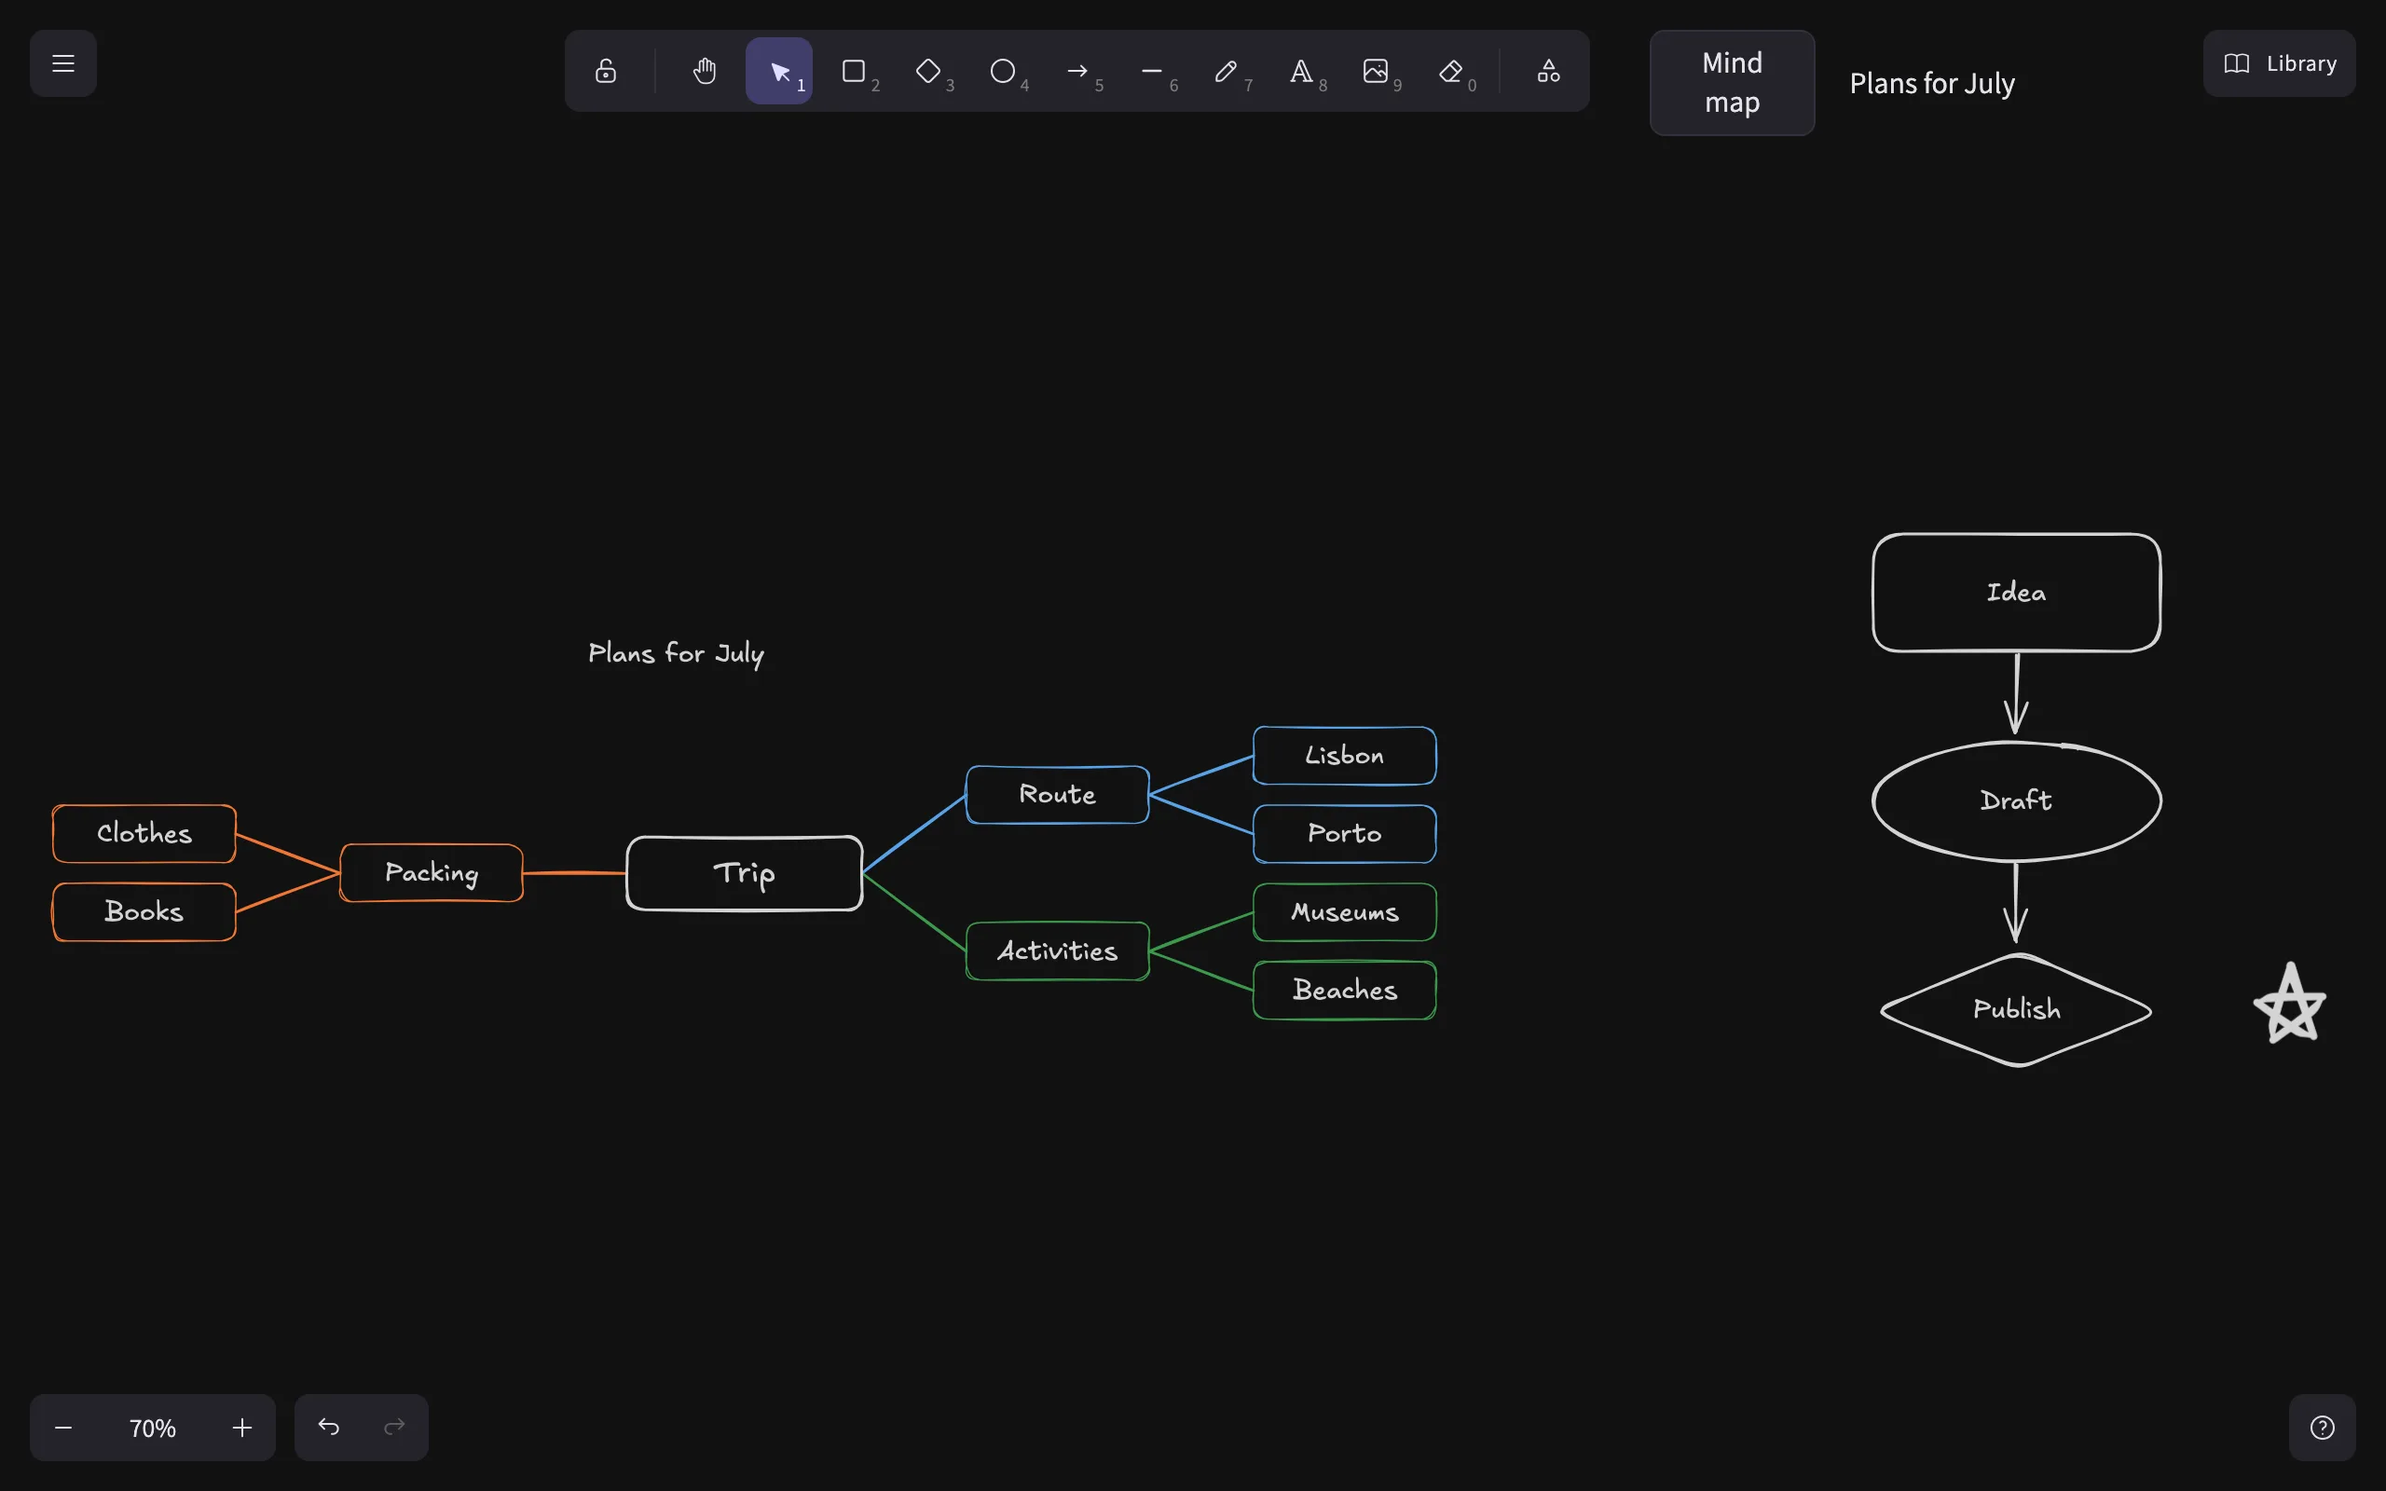
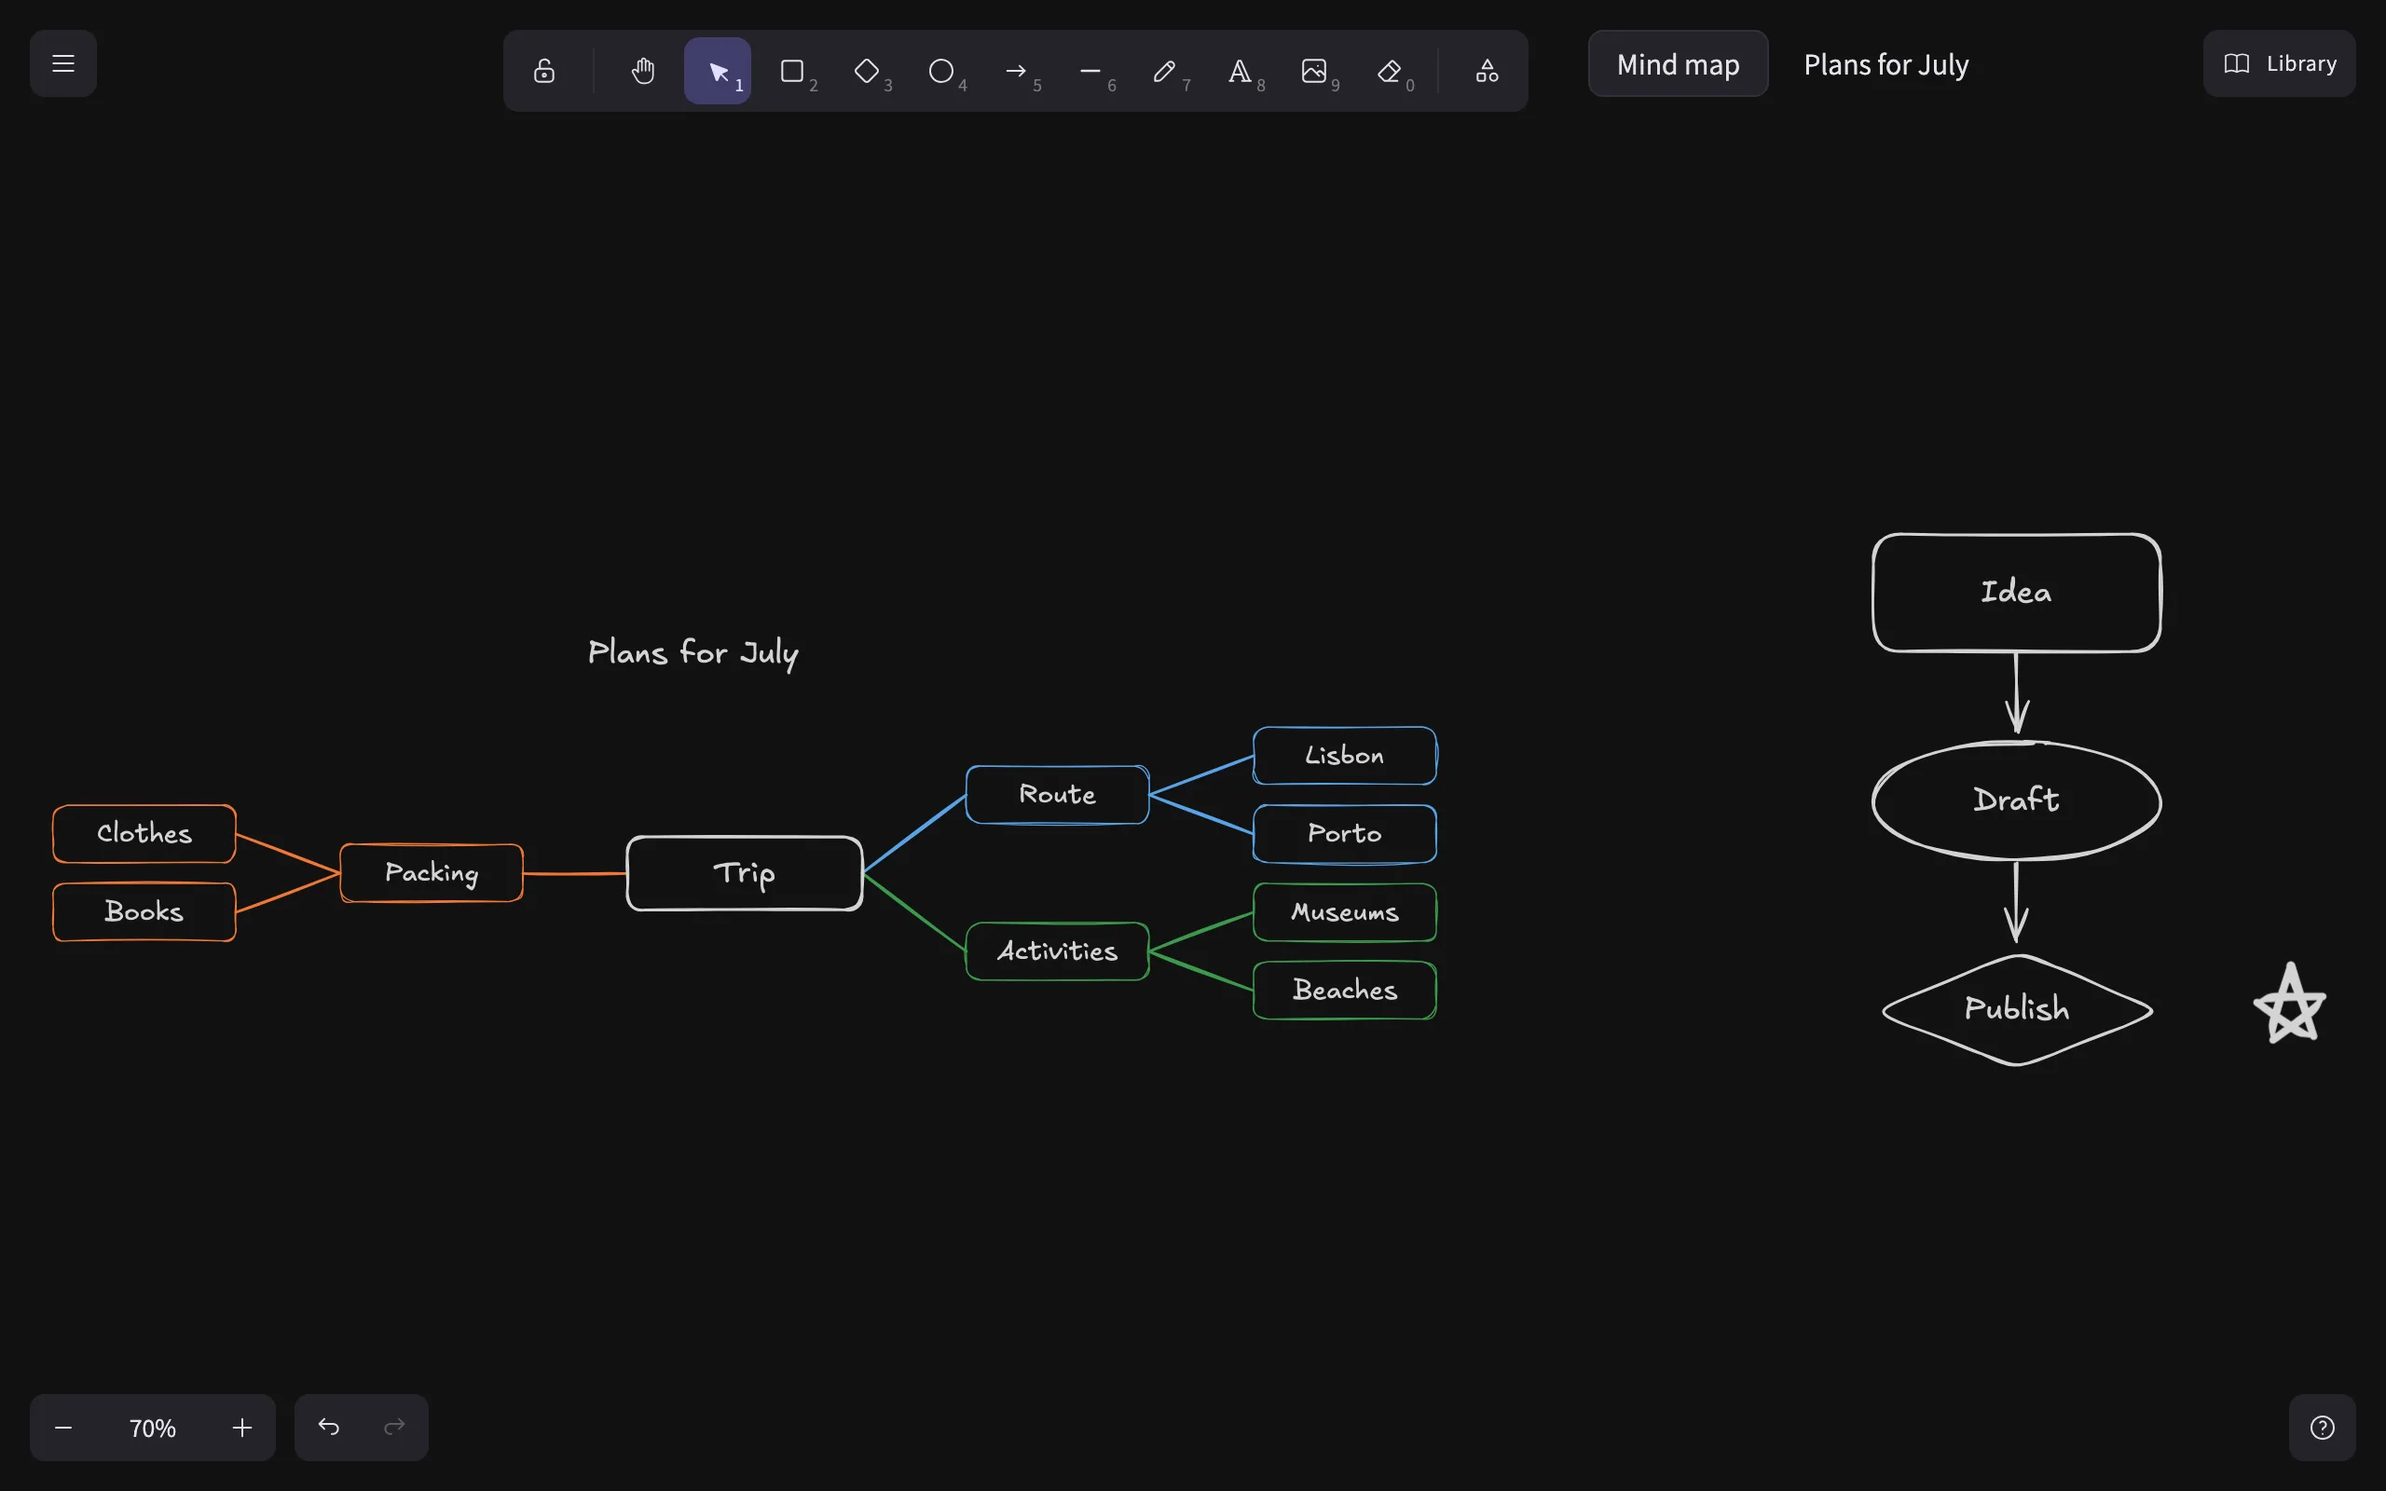
fix: address the landing page review
- Mind map screenshot shows the whole map (both sides), without editor chrome.
- Screenshot script uses ControlOrMeta shortcuts (they were no-ops on macOS),
  checks the zoom reset and pins the page clock to the fake Drive's.
- Accent text and focus rings meet contrast in both themes; colors use the
  --accent token; "Mind map" button no longer wraps.
- Offline claim states what actually happens (changes stay on the device).
- News for the home page gets its own date so readers see the unseen dot.
- Excalifont face carries Excalidraw's unicode-range; meta description and
  fetchpriority on the hero image.

diff --git a/src/index.css b/src/index.css
@@ -3,25 +3,31 @@
   font-family: 'Excalifont';
   src: url('/excalidraw-assets/fonts/Excalifont/Excalifont-Regular-a88b72a24fb54c9f94e3b5fdaa7481c9.woff2') format('woff2');
   font-display: swap;
+  unicode-range: U+20-7e,U+a0-a3,U+a5-a6,U+a8-ab,U+ad-b1,U+b4,U+b6-b8,U+ba-ff,U+131,U+152-153,U+2bc,U+2c6,U+2da,U+2dc,U+304,U+308,U+2013-2014,U+2018-201a,U+201c-201e,U+2020,U+2022,U+2024-2026,U+2030,U+2039-203a,U+20ac,U+2122,U+2212;
 }
 :root {
   --accent: #6965db;
+  /* Text in the accent color on a dark page (the base purple is under 4.5:1 there). */
+  --accent-text: #6965db;
   font-family: system-ui, -apple-system, 'Segoe UI', Roboto, sans-serif;
   color-scheme: light dark;
+}
+@media (prefers-color-scheme: dark) {
+  :root { --accent-text: #a5a3f5; }
 }
 html, body, #root { height: 100%; margin: 0; }
 .page { max-width: 40rem; margin: 0 auto; padding: 2rem 1rem; }
 .page-header { display: flex; align-items: center; justify-content: space-between; gap: 1rem; }
 .button {
   display: inline-block; padding: 0.6rem 1.2rem; border: 0; border-radius: 0.5rem;
-  background: #6965db; color: #fff; font: inherit; text-decoration: none; cursor: pointer;
+  background: var(--accent); color: #fff; font: inherit; text-decoration: none; cursor: pointer;
 }
 .language-switcher { display: inline-flex; gap: 0.5rem; align-items: center; margin-top: 1.5rem; }
 .page-header .language-switcher { margin-top: 0; }
 .editor { height: 100vh; height: 100dvh; }
 .app-footer { display: flex; flex-wrap: wrap; gap: 0.4rem; justify-content: center; padding: 1.5rem 1rem; font-size: 0.8rem; opacity: 0.7; }
 .app-footer a { color: inherit; position: relative; }
-.unseen-dot { display: inline-block; width: 0.45rem; height: 0.45rem; margin-left: 0.25rem; border-radius: 50%; background: #6965db; vertical-align: super; }
+.unseen-dot { display: inline-block; width: 0.45rem; height: 0.45rem; margin-left: 0.25rem; border-radius: 50%; background: var(--accent); vertical-align: super; }
 .button-secondary { padding: 0.4rem 0.9rem; border: 1px solid currentColor; border-radius: 0.5rem; background: transparent; color: inherit; font: inherit; cursor: pointer; }
 .whats-new-list { list-style: none; padding: 0; margin-top: 2rem; display: flex; flex-direction: column; gap: 2rem; }
 .whats-new-list > li { border-left: 2px solid #6965db55; padding-left: 1.25rem; }
@@ -53,9 +59,9 @@ html, body, #root { height: 100%; margin: 0; }
 .action-error { position: fixed; z-index: 15; bottom: 4.5rem; left: 50%; transform: translateX(-50%); margin: 0; padding: 0.5rem 1rem; border-radius: 0.5rem; background: #c92a2a; color: #fff; font-size: 0.85rem; }
 .editor-top-right { display: flex; gap: 0.5rem; align-items: center; }
 /* Follows the editor theme (Excalidraw variables), not the system one: the two can differ. */
-.mindmap-button { background: var(--island-bg-color); color: var(--text-primary-color); border-color: var(--default-border-color); }
+.mindmap-button { white-space: nowrap; background: var(--island-bg-color); color: var(--text-primary-color); border-color: var(--default-border-color); }
 .mindmap-placement { position: fixed; inset: 0; z-index: 12; cursor: crosshair; }
-.mindmap-placement-hint { position: absolute; top: 4.5rem; left: 50%; transform: translateX(-50%); margin: 0; padding: 0.4rem 0.9rem; border-radius: 0.5rem; background: #6965db; color: #fff; font-size: 0.85rem; pointer-events: none; }
+.mindmap-placement-hint { position: absolute; top: 4.5rem; left: 50%; transform: translateX(-50%); margin: 0; padding: 0.4rem 0.9rem; border-radius: 0.5rem; background: var(--accent); color: #fff; font-size: 0.85rem; pointer-events: none; }
 
 /* Landing page */
 .landing { --landing-max: 72rem; --muted: color-mix(in srgb, CanvasText 68%, transparent); }
@@ -72,7 +78,8 @@ html, body, #root { height: 100%; margin: 0; }
 .landing-lead { font-size: 1.2rem; color: var(--muted); margin: 0 0 2rem; max-width: 30rem; }
 .button-large { padding: 0.85rem 1.6rem; font-size: 1.05rem; font-weight: 600; border-radius: 0.65rem; box-shadow: 0 6px 20px color-mix(in srgb, var(--accent) 35%, transparent); transition: transform 0.15s, box-shadow 0.15s; }
 .button-large:hover { transform: translateY(-1px); box-shadow: 0 10px 26px color-mix(in srgb, var(--accent) 45%, transparent); }
-.button:focus-visible, .landing a:focus-visible { outline: 3px solid color-mix(in srgb, var(--accent) 55%, transparent); outline-offset: 3px; }
+/* Solid ring (3:1 against the page) plus an inner light ring so it also reads on the purple button. */
+.button:focus-visible, .landing a:focus-visible { outline: 3px solid var(--accent-text); outline-offset: 3px; box-shadow: 0 0 0 2px Canvas; }
 .landing picture img { display: block; width: 100%; height: auto; border-radius: 0.75rem; border: 1px solid color-mix(in srgb, CanvasText 12%, transparent); box-shadow: 0 18px 50px color-mix(in srgb, CanvasText 14%, transparent); }
 .landing-hero-shot img { transform: rotate(0.6deg); }
 .landing-section { padding-block: 3.5rem; }
@@ -81,8 +88,8 @@ html, body, #root { height: 100%; margin: 0; }
 .landing-feature p { margin: 0; color: var(--muted); }
 .landing-trust ul { list-style: none; padding: 0; margin: 0; display: grid; grid-template-columns: repeat(2, minmax(0, 1fr)); gap: 1rem 2.5rem; }
 .landing-trust li { position: relative; padding-left: 2rem; line-height: 1.6; }
-.landing-trust li::before { content: '✓'; position: absolute; left: 0; top: -0.05rem; font-family: 'Excalifont', system-ui, sans-serif; font-size: 1.35rem; color: var(--accent); }
-.landing-trust a { color: var(--accent); font-weight: 600; }
+.landing-trust li::before { content: '✓'; position: absolute; left: 0; top: -0.05rem; font-size: 1.2rem; font-weight: 700; color: var(--accent-text); }
+.landing-trust a { color: var(--accent-text); font-weight: 600; }
 .landing-cta { text-align: center; }
 .landing-cta p { color: var(--muted); margin: 0 0 1.75rem; }
 .heartbeat { display: inline-block; animation: heartbeat 1.4s ease-in-out infinite; }

diff --git a/scripts/screenshots/landing.spec.ts b/scripts/screenshots/landing.spec.ts
@@ -108,6 +108,8 @@ for (const lang of ['pt-BR', 'en'] as const) {
         const drive = new FakeDrive()
         for (const name of c.files) drive.add({ name: `${name}.excalidraw`, content: '{"type":"excalidraw","elements":[]}' })
         await installFakeGoogle(page, drive)
+        // The page's clock matches the fake Drive's, so "edited … ago" does not depend on when this runs.
+        await page.clock.setFixedTime(new Date('2026-10-09T14:00:00Z'))
 
         await page.goto('/app')
         await page.getByRole('button', { name: c.signIn }).click()
@@ -147,19 +149,23 @@ for (const lang of ['pt-BR', 'en'] as const) {
         await page.mouse.move(1270, 790)
         await expect(page.locator('.save-status').filter({ hasText: c.saved })).toBeAttached({ timeout: 10_000 })
         const prefix = `${lang}-`
-        await saveWebp(page, await page.screenshot({ clip: { x: 505, y: 211, width: 700, height: 438 } }), `${prefix}mindmap-${theme}`)
+        // The map alone, without the editor's bottom bar (zoom, undo) creeping into the crop.
+        const footer = await page.addStyleTag({ content: '.layer-ui__wrapper__footer-left, .zoom-actions, .undo-redo-buttons { display: none !important; }' })
+        await saveWebp(page, await page.screenshot({ clip: { x: 70, y: 82, width: 1140, height: 712 } }), `${prefix}mindmap-${theme}`)
+        await footer.evaluate((el) => el.remove())
 
         // A handwritten title above the map fills the canvas shot.
         await page.keyboard.press('t')
         await page.mouse.click(520, 250)
         await type(page, c.title)
         // Esc leaves the new text selected: bump its size twice.
-        await page.keyboard.press('Control+Shift+Period')
-        await page.keyboard.press('Control+Shift+Period')
+        await page.keyboard.press('ControlOrMeta+Shift+Period')
+        await page.keyboard.press('ControlOrMeta+Shift+Period')
         await page.keyboard.press('Escape')
 
         // Hand-drawn flow on empty canvas to the right of the map, at 100% zoom.
-        await page.keyboard.press('Control+0') // reset zoom
+        await page.keyboard.press('ControlOrMeta+0') // reset zoom
+        await expect(page.getByText('100%', { exact: true })).toBeVisible()
         for (let i = 0; i < 9; i++) await page.mouse.wheel(250, 0)
         const [idea, draft, publish] = c.flow
         await box(page, 'r', 380, 170, idea)

diff --git a/src/components/Screenshot.tsx b/src/components/Screenshot.tsx
@@ -5,12 +5,12 @@ export type Shot = 'canvas' | 'mindmap' | 'draw' | 'files'
 
 const SIZES: Record<Shot, { width: number; height: number }> = {
   canvas: { width: 1280, height: 800 },
-  mindmap: { width: 700, height: 438 },
+  mindmap: { width: 1140, height: 712 },
   draw: { width: 720, height: 450 },
   files: { width: 700, height: 415 },
 }
 
-export const screenshotPath = (lang: string, shot: Shot, theme: 'light' | 'dark') =>
+const screenshotPath = (lang: string, shot: Shot, theme: 'light' | 'dark') =>
   `/landing/${lang}-${shot}-${theme}.webp`
 
 export function Screenshot({
@@ -33,6 +33,7 @@ export function Screenshot({
         alt={alt}
         {...SIZES[shot]}
         loading={eager ? 'eager' : 'lazy'}
+        fetchPriority={eager ? 'high' : 'auto'}
         decoding="async"
       />
     </picture>

diff --git a/src/i18n/pt-BR.ts b/src/i18n/pt-BR.ts
@@ -31,7 +31,7 @@ export const ptBR = {
       scope: 'O app enxerga só os arquivos que ele mesmo criou ou que você abriu nele. O resto do seu Drive fica fora do alcance.',
       openSource: 'Código aberto',
       openSourceText: '(licença MIT): qualquer pessoa pode ver como ele funciona.',
-      offline: 'Caiu a conexão? Continue desenhando: o Rabisco salva quando ela voltar.',
+      offline: 'Caiu a conexão no meio do desenho? Continue: as mudanças ficam neste aparelho e são salvas quando a internet voltar.',
     },
     ctaTitle: 'Comece um rabisco agora',
     ctaText: 'Entre com a sua conta Google e crie o primeiro desenho em segundos.',

diff --git a/src/pages/WhatsNewPage.test.tsx b/src/pages/WhatsNewPage.test.tsx
@@ -1,3 +1,4 @@
+import { latestWhatsNewDate } from '../whatsNew/entries'
 import { screen } from '@testing-library/react'
 import userEvent from '@testing-library/user-event'
 import { AppRoutes } from '../routes'
@@ -22,7 +23,7 @@ it('shows the same entry in English', () => {
 
 it('marks the news as seen when opened', () => {
   renderWithProviders(<AppRoutes />, { route: '/whats-new' })
-  expect(localStorage.getItem('rabisco.whatsNew.lastSeen')).toBe('2026-10-09')
+  expect(localStorage.getItem('rabisco.whatsNew.lastSeen')).toBe(latestWhatsNewDate)
 })
 
 it('goes home when opened directly, with no history to go back to', async () => {

diff --git a/src/i18n/en.ts b/src/i18n/en.ts
@@ -33,7 +33,7 @@ export const en: Messages = {
       scope: 'The app only sees the files it created or that you opened with it. The rest of your Drive stays out of reach.',
       openSource: 'Open source',
       openSourceText: '(MIT license): anyone can see how it works.',
-      offline: 'Lost your connection? Keep drawing: Rabisco saves once it is back.',
+      offline: "Lost your connection mid-drawing? Keep going: changes stay on this device and are saved when you're back online.",
     },
     ctaTitle: 'Start a sketch now',
     ctaText: 'Sign in with your Google account and create your first drawing in seconds.',

diff --git a/index.html b/index.html
@@ -5,6 +5,7 @@
     <link rel="icon" type="image/svg+xml" href="/favicon.svg" />
     <meta name="viewport" content="width=device-width, initial-scale=1.0" />
     <title>Rabisco</title>
+    <meta name="description" content="Mapas mentais e fluxos à mão no mesmo canvas, salvos no seu Google Drive. Grátis e de código aberto." />
     <script>
       // Sets <html lang> before the bundle loads, mirroring src/i18n/storage.ts and languages.ts.
       (function () {

diff --git a/src/whatsNew/entries.ts b/src/whatsNew/entries.ts
@@ -15,6 +15,9 @@ export interface WhatsNewEntry {
   sections: WhatsNewSection[]
 }
 
-export const whatsNewEntries: WhatsNewEntry[] = [{ date: '2026-10-09', sections: ['home', 'mindmap', 'drive', 'launch'] }]
+export const whatsNewEntries: WhatsNewEntry[] = [
+  { date: '2026-10-10', sections: ['home'] },
+  { date: '2026-10-09', sections: ['mindmap', 'drive', 'launch'] },
+]
 
 export const latestWhatsNewDate: string | undefined = whatsNewEntries[0]?.date
